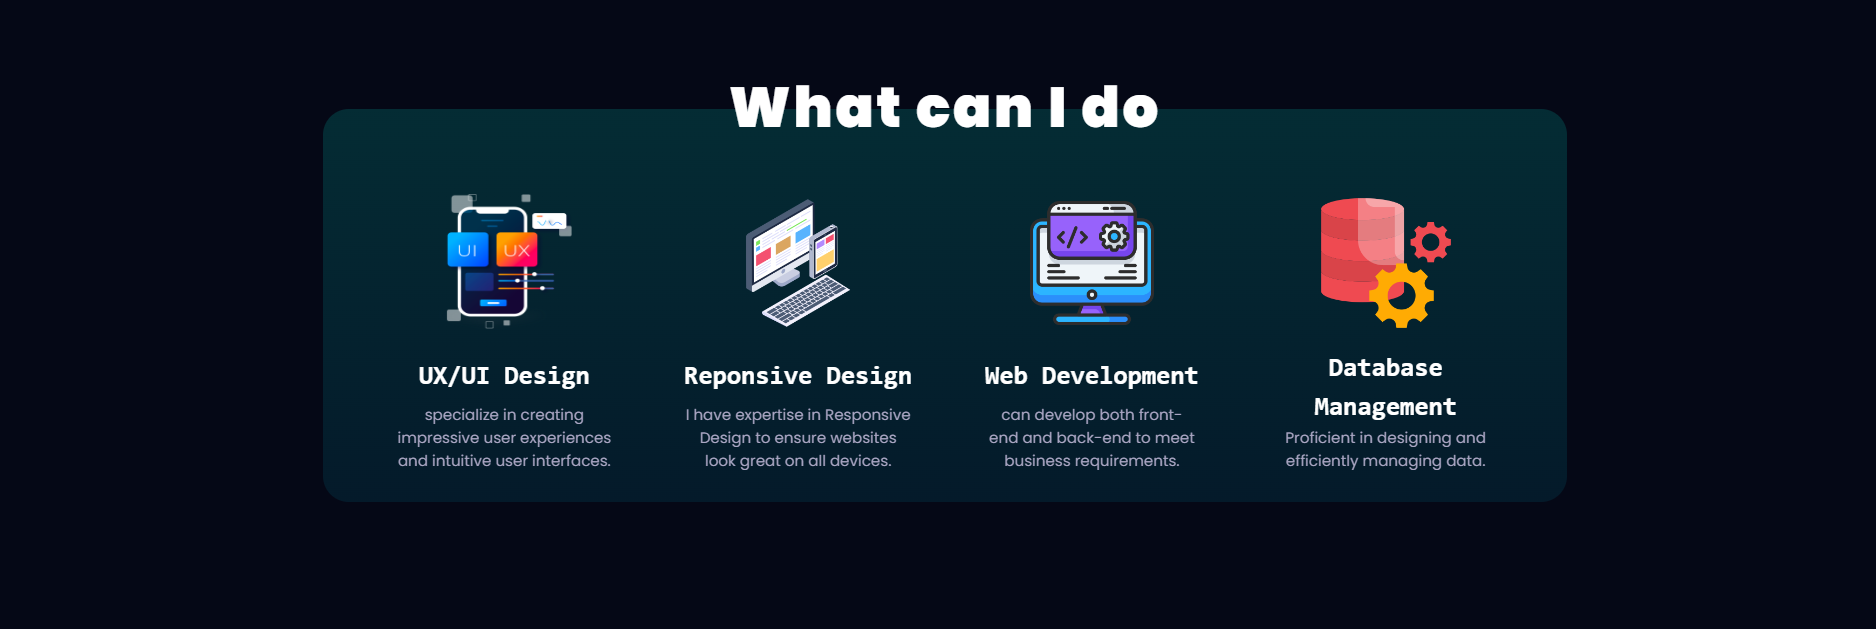
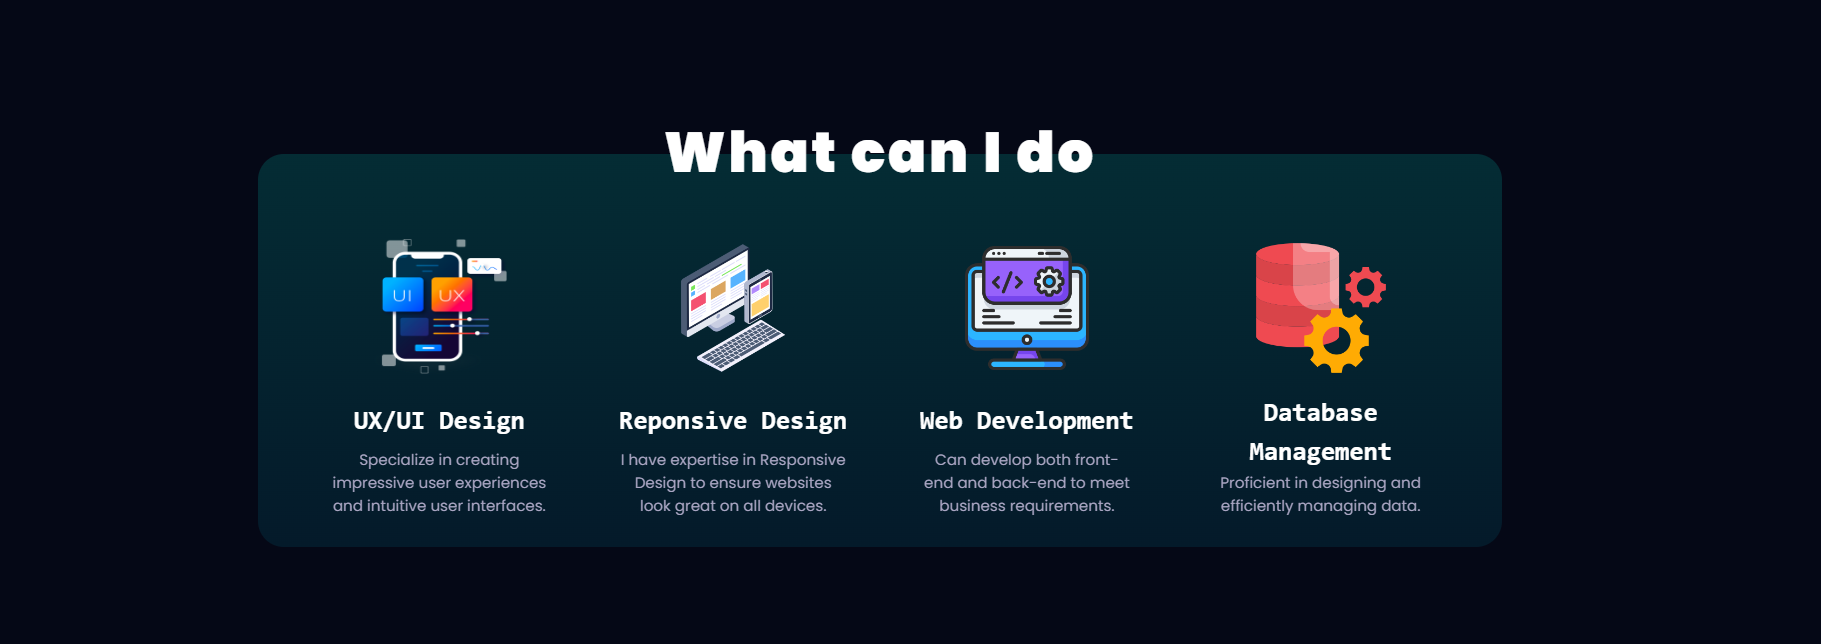
save

Changed region(s): [[0.123, 0.1208, 0.8611, 0.8156], [0.6766, 0.6343, 0.7996, 0.8156]]

diff --git a/src/constants/index.js b/src/constants/index.js
@@ -257,7 +257,7 @@ import {
         },
       ],
       image: carrent,
-      source_code_link: "https://github.com/",
+      source_code_link: "https://github.com/Intummadee/CardCheck",
     },
     {
       name: "Mobile-Application-Motorcycle",
@@ -299,14 +299,14 @@ import {
         },
       ],
       image: tripguide,
-      source_code_link: "https://github.com/",
+      source_code_link: "https://github.com/Intummadee/Beauty-House",
     },
   ];
   
   export const myServices = [
-    {id:"UX/UI Design" , img : UXUI , detail: "specialize in creating impressive user experiences and intuitive user interfaces."},
+    {id:"UX/UI Design" , img : UXUI , detail: "Specialize in creating impressive user experiences and intuitive user interfaces."},
     {id:"Reponsive Design", img : responsive , detail:"I have expertise in Responsive Design to ensure websites look great on all devices."},
-    {id:"Web Development" , img : webDev , detail:"can develop both front-end and back-end to meet business requirements."},
+    {id:"Web Development" , img : webDev , detail:"Can develop both front-end and back-end to meet business requirements."},
     {id:"Database Management" , img : database , detail:"Proficient in designing and efficiently managing data."},
   ];
 

diff --git a/src/assets/index.js b/src/assets/index.js
@@ -27,7 +27,7 @@ import starbucks from "./company/starbucks.png";
 import tesla from "./company/tesla.png";
 
 import carrent from "./carrent.png";
-import jobit from "./jobit.png";
+import jobit from "./jobit.jpg";
 import tripguide from "./tripguide.png";
 
 
